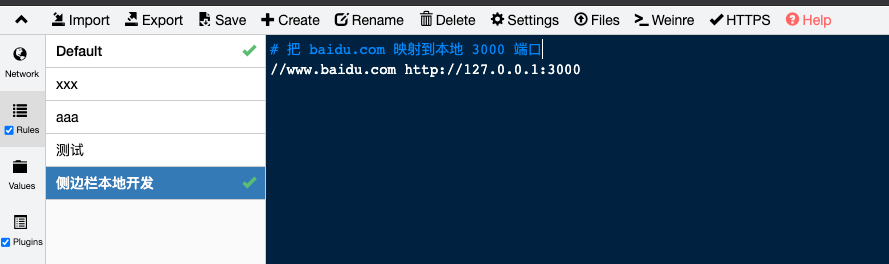
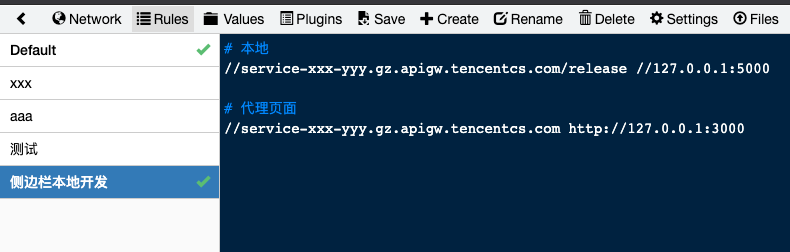
feat: 更新本地环境搭建

Changed region(s): [[0.0, 0.0, 1.0, 1.0], [0.0, 0.0556, 0.0304, 0.1111]]

diff --git a/docs/guide/dev_env.md b/docs/guide/dev_env.md
@@ -6,21 +6,19 @@
 
 ## 怎么把侧边栏映射到本地
 
-《配置侧边栏》这一步给侧边栏配置了 [https://www.baidu.com](https://www.baidu.com)。
-假设这个就是我们要用的域名，怎么把侧边栏映射到本地呢？
-
-翻了很多网上的资料，基本都是改 hosts 文件来让 https://www.baidu.com 打到 localhost:3000 的。
+翻了很多网上的资料，基本都是改 hosts 文件来让侧边栏页面 打到 localhost 的。
 怎么说呢，感觉上就很不"本地"，因为会有一个"哎呀，我改了本地 hosts 文件，等开发完了要再改回去"的心理负担，不是很灵活。
 
 我们只想做个代理、或者转发呀。
 
 ## Whistle 简介
 
-这里就不得不安利一波我们 IMWeb 出品的 Whistle 啦，whistle(读音[ˈwɪsəl]，拼音[wēisǒu])，是基于Node实现的跨平台web调试代理工具。
+这里就不得不安利一波我们 IMWeb 出品的 [Whistle](https://wproxy.org/whistle/) 啦，whistle(读音[ˈwɪsəl]，拼音[wēisǒu])，是基于Node实现的跨平台web调试代理工具。
 
-Whistle 功能有非常的多，下面我只列举开发侧边栏常用的配置项，更多好玩的可以见 [Whistle 官网](https://wproxy.org/whistle/)。
+有了 Whistle 代理工具，可以轻松地将侧边栏代理到 localhost：
 
-现在我们的目标是把企业微信的 baidu.com 通过 whistle 代理，在 whistle 上设置代理规则，把 baidu.com 代理到本地 localhost 即可。
+1. 让侧边栏页面走 whistle 代理
+2. 在 whistle 上设置代理规则，把页面所有请求都代理到 localhost
 
 ## 本机全局代理
 
@@ -47,21 +45,28 @@ w2 start
 
 这里最好 Web Proxy(HTTP) 和 Secure WebProxy(HTTPS) 都用 127.0.0.1:8899 做代理。
 
-到了这一步，
+## 捕获 Https
+
+配置页的一定要 https 协议的，所以我们还要允许 Whistle 捕获 HTTPS 请求。按下面步骤一步一步来，要全套做完。
+
+[允许 Whistle 捕获 HTTPS 请求](http://wproxy.org/whistle/webui/https.html)
 
 ## 添加规则
 
 加入规则：
 
 ```
-# 把 baidu.com 映射到本地 3000 端口
-//www.baidu.com http://127.0.0.1:3000
+# 代理后端（要放在最前端，不然代理规则会优先命中后面的规则）
+//service-xxx-yyy.gz.apigw.tencentcs.com/release //127.0.0.1:5000
+
+# 代理前端
+//service-xxx-yyy.gz.apigw.tencentcs.com http://127.0.0.1:3000
 ```
 
 ![](./images/whistle_rules.png)
 
 重启企业微信（会有缓存），打开侧边栏。
 
-![](./images/whistle_result.png)
+![](./images/whistle_results.png)
 
 恭喜你！已经成功搭建好了本地环境了👏
